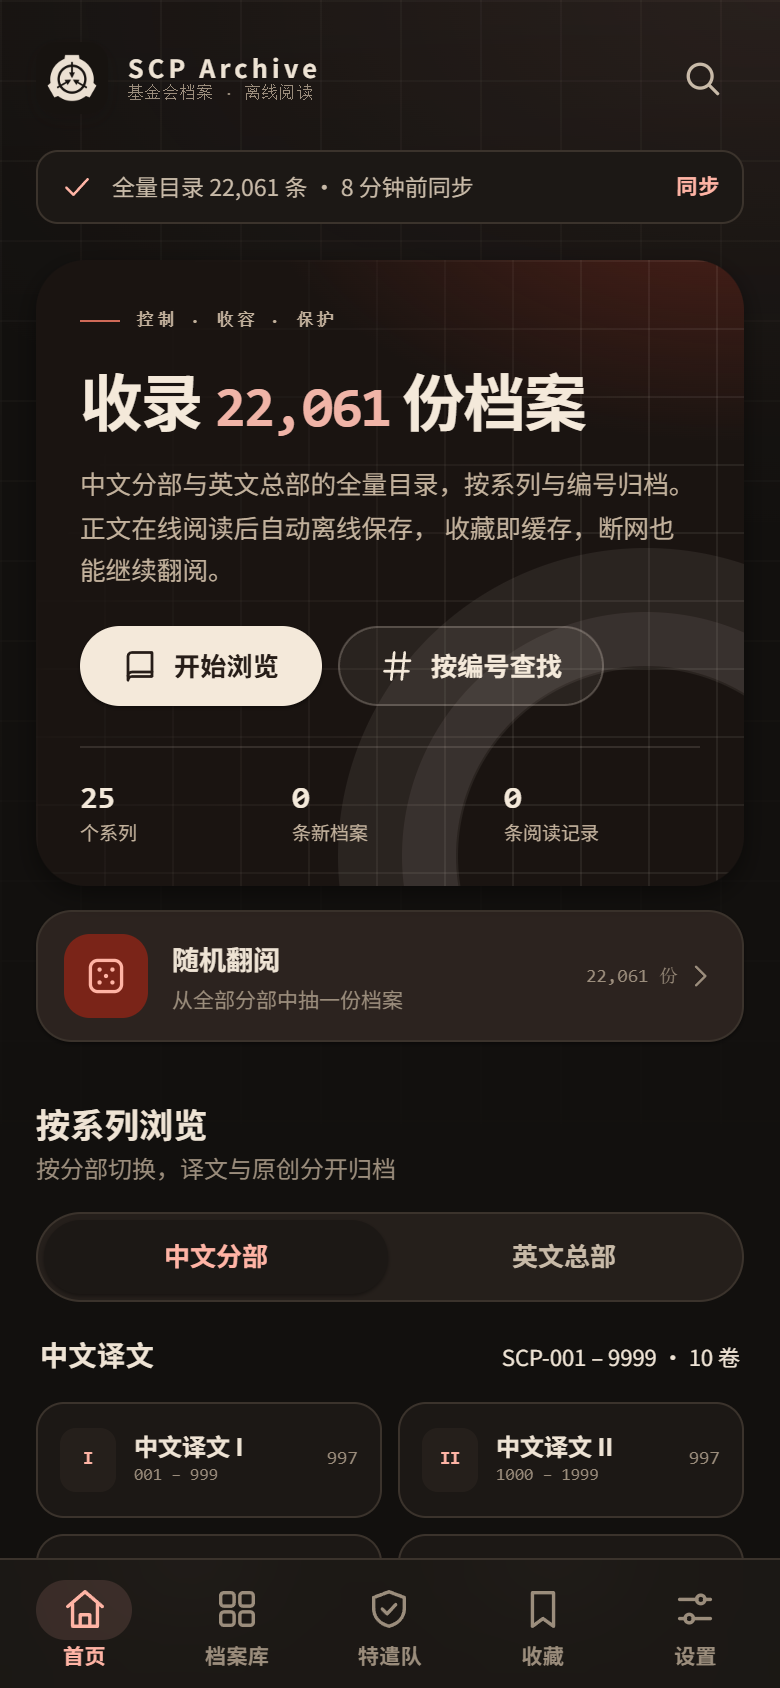
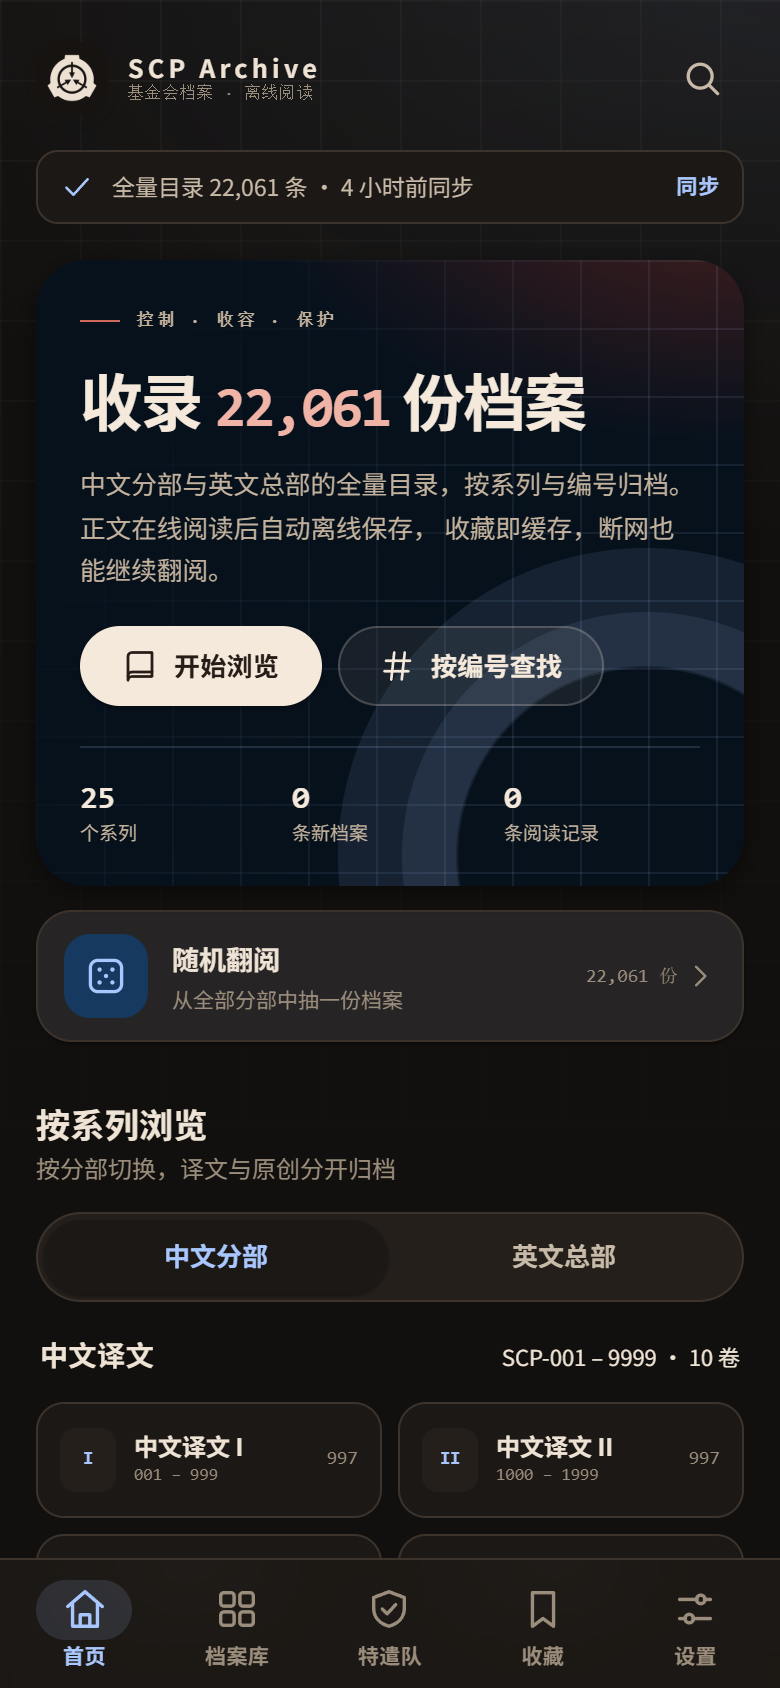
fix: cache cleared articles and default to O5

diff --git a/src/pages/Reader.tsx b/src/pages/Reader.tsx
@@ -160,9 +160,6 @@ export function Reader() {
     window.scrollTo({ top: 0, behavior: 'auto' });
 
     void (async () => {
-      const isBlocked = (target: Article) =>
-        articleAccess(articleSecurity(target).required, settings.clearance) === 'blocked';
-
       const [stored, saved, cachedTranslation] = await Promise.all([
         readArticle(branch, slug),
         getReadingProgress(branch, slug),
@@ -178,16 +175,14 @@ export function Reader() {
         setArticle(stored);
         setStatus('ready');
         setPercent(saved?.percent ?? 0);
-        if (!isBlocked(stored) && isOnline() && Date.now() - stored.fetchedAt > ARTICLE_TTL_MS) {
+        if (isOnline() && Date.now() - stored.fetchedAt > ARTICLE_TTL_MS) {
           void (async () => {
             try {
               const fresh = await fetchArticle(branch, slug);
               if (cancelled) return;
               setArticle(fresh);
-              if (!isBlocked(fresh)) {
-                await cacheArticle(fresh);
-                if (!cancelled) await refreshOffline();
-              }
+              await cacheArticle(fresh);
+              if (!cancelled) await refreshOffline();
             } catch {
               // Keep the cached copy when a background refresh fails.
             }
@@ -201,11 +196,9 @@ export function Reader() {
         if (cancelled) return;
         setArticle(fresh);
         setStatus('ready');
-        if (!isBlocked(fresh)) {
-          void cacheArticle(fresh)
-            .then(() => (cancelled ? undefined : refreshOffline()))
-            .catch(() => undefined);
-        }
+        void cacheArticle(fresh)
+          .then(() => (cancelled ? undefined : refreshOffline()))
+          .catch(() => undefined);
       } catch (loadError) {
         if (cancelled) return;
         restoringRef.current = false;
@@ -266,6 +259,20 @@ export function Reader() {
     body.addEventListener('error', onError, true);
     return () => body.removeEventListener('error', onError, true);
   }, [article]);
+
+  // Even when the gate blocks the body, keep the archive in history so the
+  // entry reflects that it was opened. Preserve any earlier reading position.
+  useEffect(() => {
+    if (status !== 'ready' || !article || !blocked) return;
+    saveProgress({
+      branch,
+      slug,
+      code: article.code,
+      title: article.title,
+      percent: savedRef.current?.percent ?? 0,
+      updatedAt: Date.now(),
+    });
+  }, [status, article, blocked, branch, slug, saveProgress]);
 
   useEffect(() => {
     if (status !== 'ready' || !article || blocked) return;

diff --git a/src/pages/Settings.tsx b/src/pages/Settings.tsx
@@ -169,7 +169,7 @@ export function SettingsPage() {
 
           <p className="clearance-note">
             <Icon name="info" size={13} />
-            这是阅读氛围设定：切换后配色、栏目与正文脱敏会立刻改变，不构成真实访问控制。
+            这是阅读氛围设定：新安装默认 O5。切换后配色、栏目与正文脱敏会立刻改变，不构成真实访问控制。
           </p>
         </div>
       </section>
@@ -474,7 +474,7 @@ export function SettingsPage() {
       <section className="settings-group">
         <h2 className="settings-group__title">关于</h2>
         <div className="settings-card">
-          <SettingRow title="SCP Archive" description="版本 0.6.0 · Capacitor + React">
+          <SettingRow title="SCP Archive" description="版本 0.6.1 · Capacitor + React">
             <Button variant="text" onClick={() => update(DEFAULT_SETTINGS)}>
               恢复默认
             </Button>

diff --git a/index.html b/index.html
@@ -33,9 +33,9 @@
         var clearance = localStorage.getItem('scp-clearance');
         var allowed = ['o5', 'l4', 'l3', 'l2', 'l1', 'd'];
         document.documentElement.dataset.clearance =
-          allowed.indexOf(clearance) >= 0 ? clearance : 'l3';
+          allowed.indexOf(clearance) >= 0 ? clearance : 'o5';
       } catch (error) {
-        document.documentElement.dataset.clearance = 'l3';
+        document.documentElement.dataset.clearance = 'o5';
       }
     </script>
     <style>

diff --git a/src/lib/constants.ts b/src/lib/constants.ts
@@ -51,7 +51,7 @@ export function seriesForBranch(branch: Branch): SeriesDef[] {
 
 export const DEFAULT_SETTINGS: Settings = {
   theme: 'system',
-  clearance: 'l3',
+  clearance: 'o5',
   appIcon: 'official',
   fontScale: 1,
   lineHeight: 1.9,
